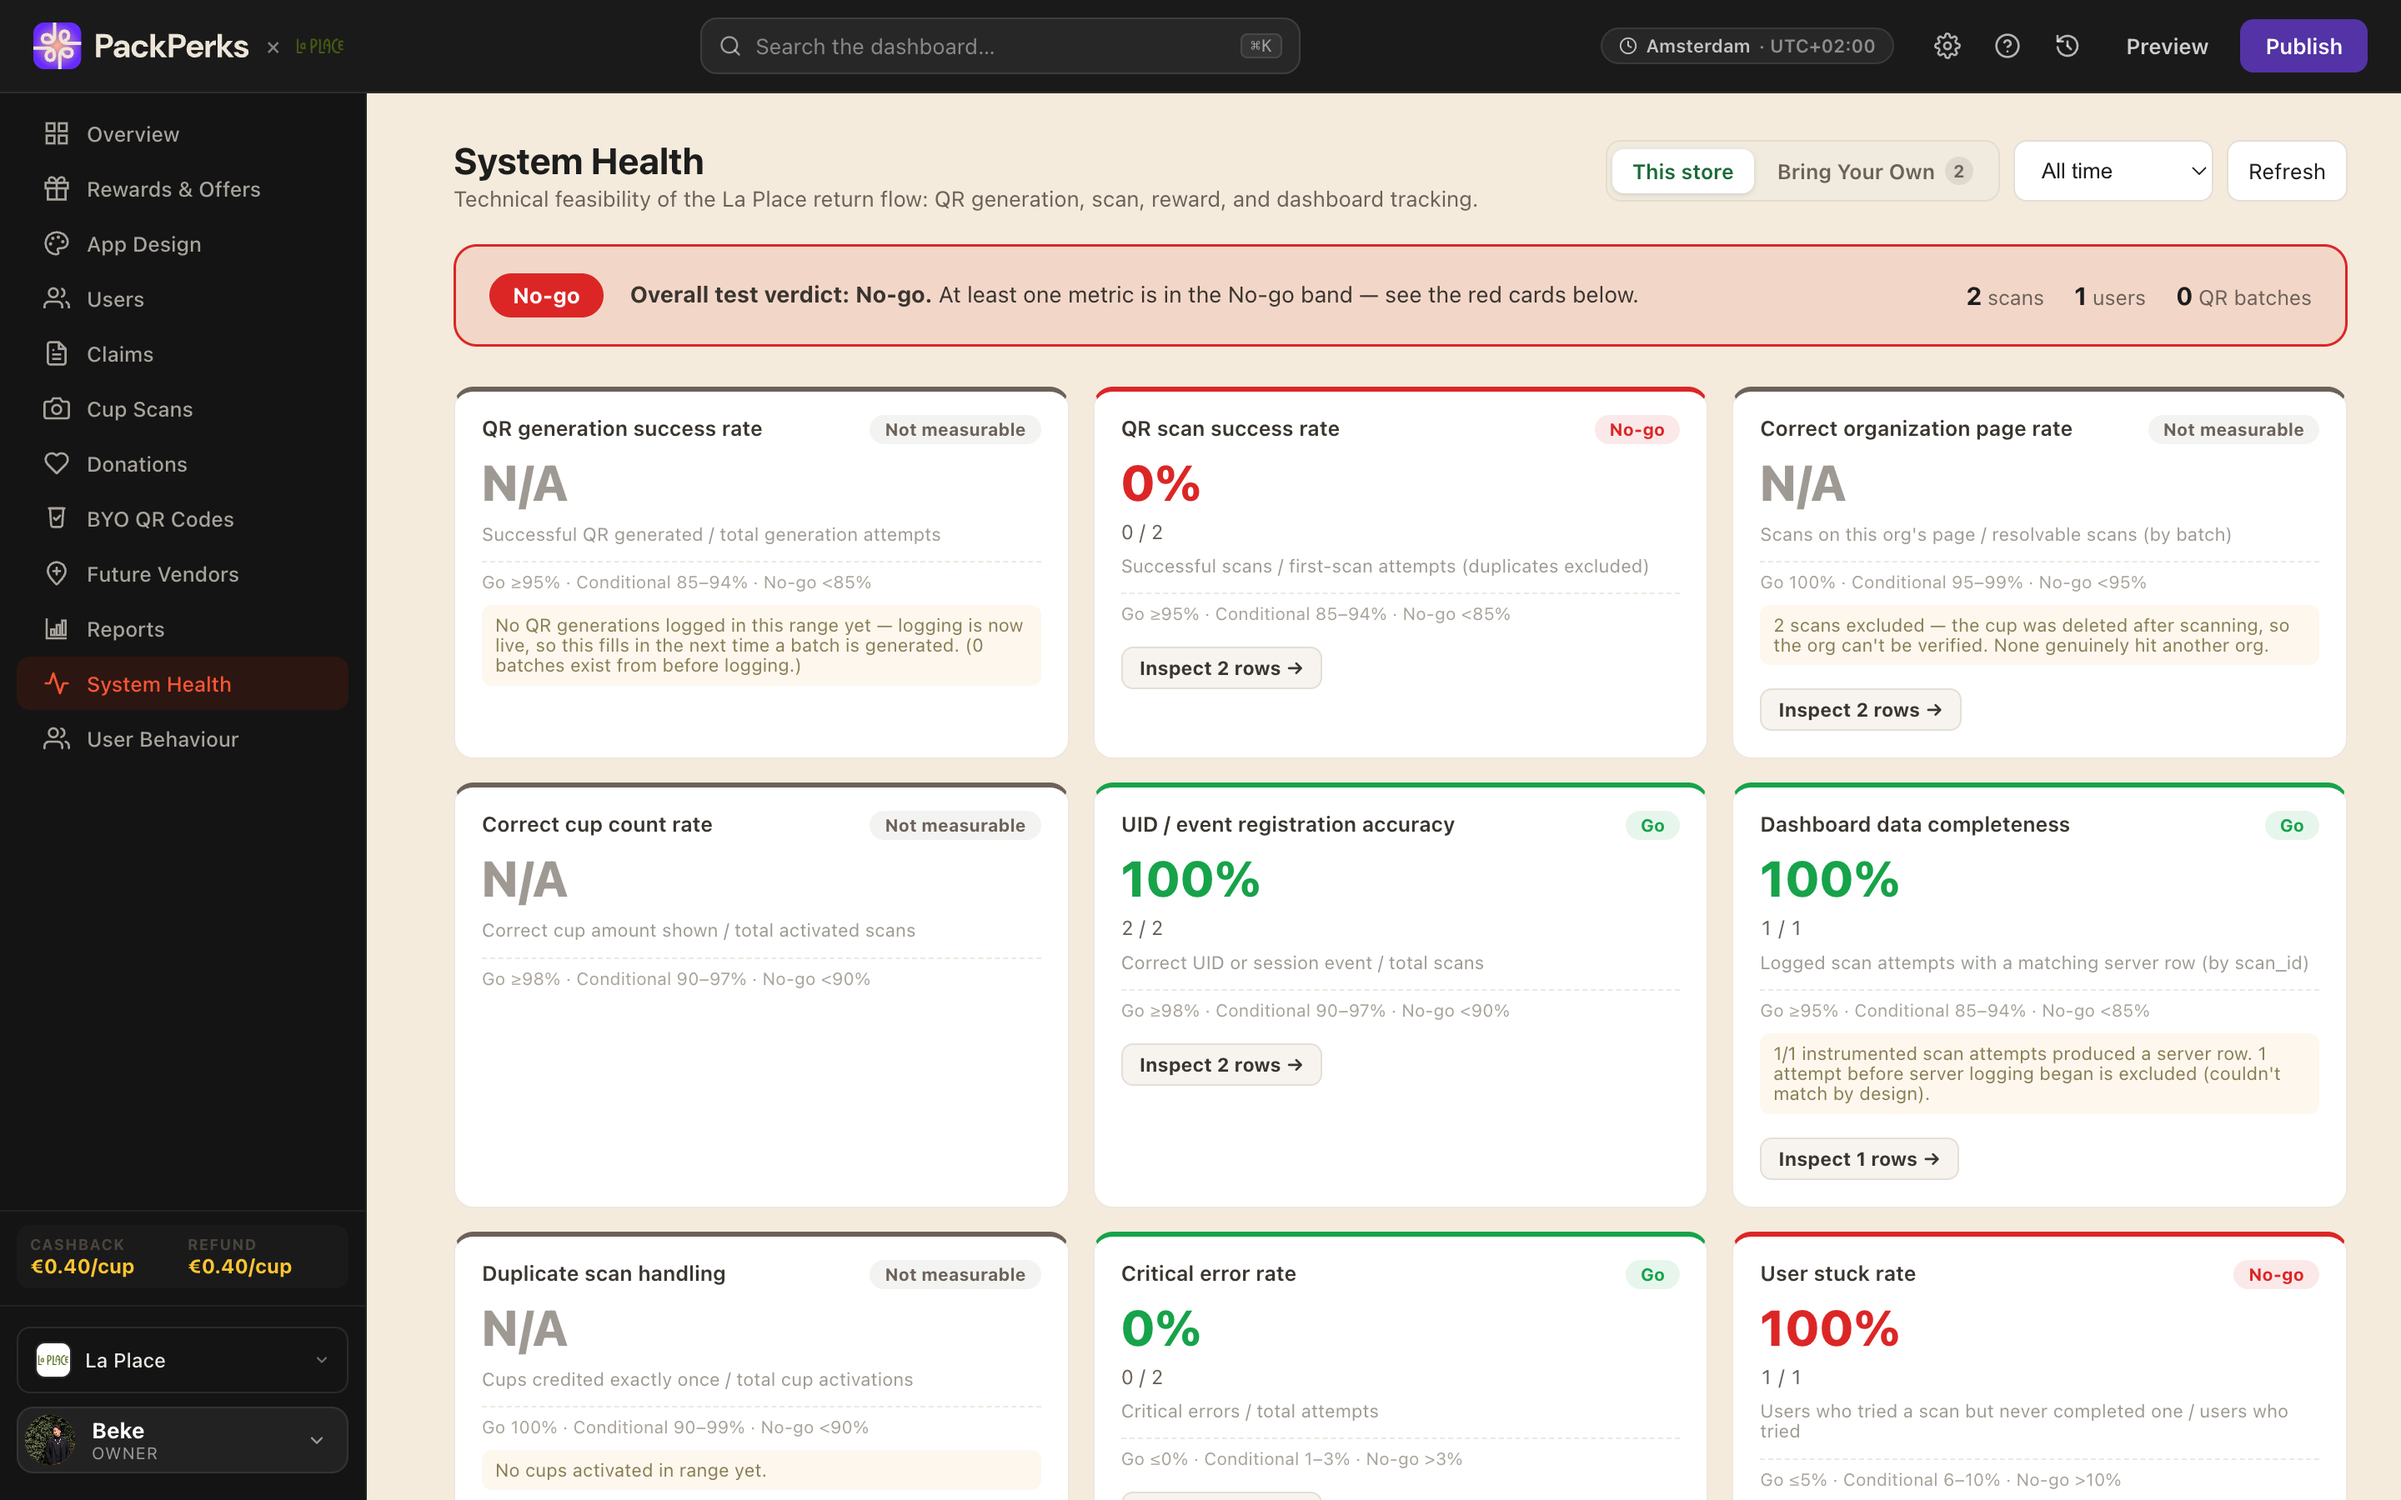
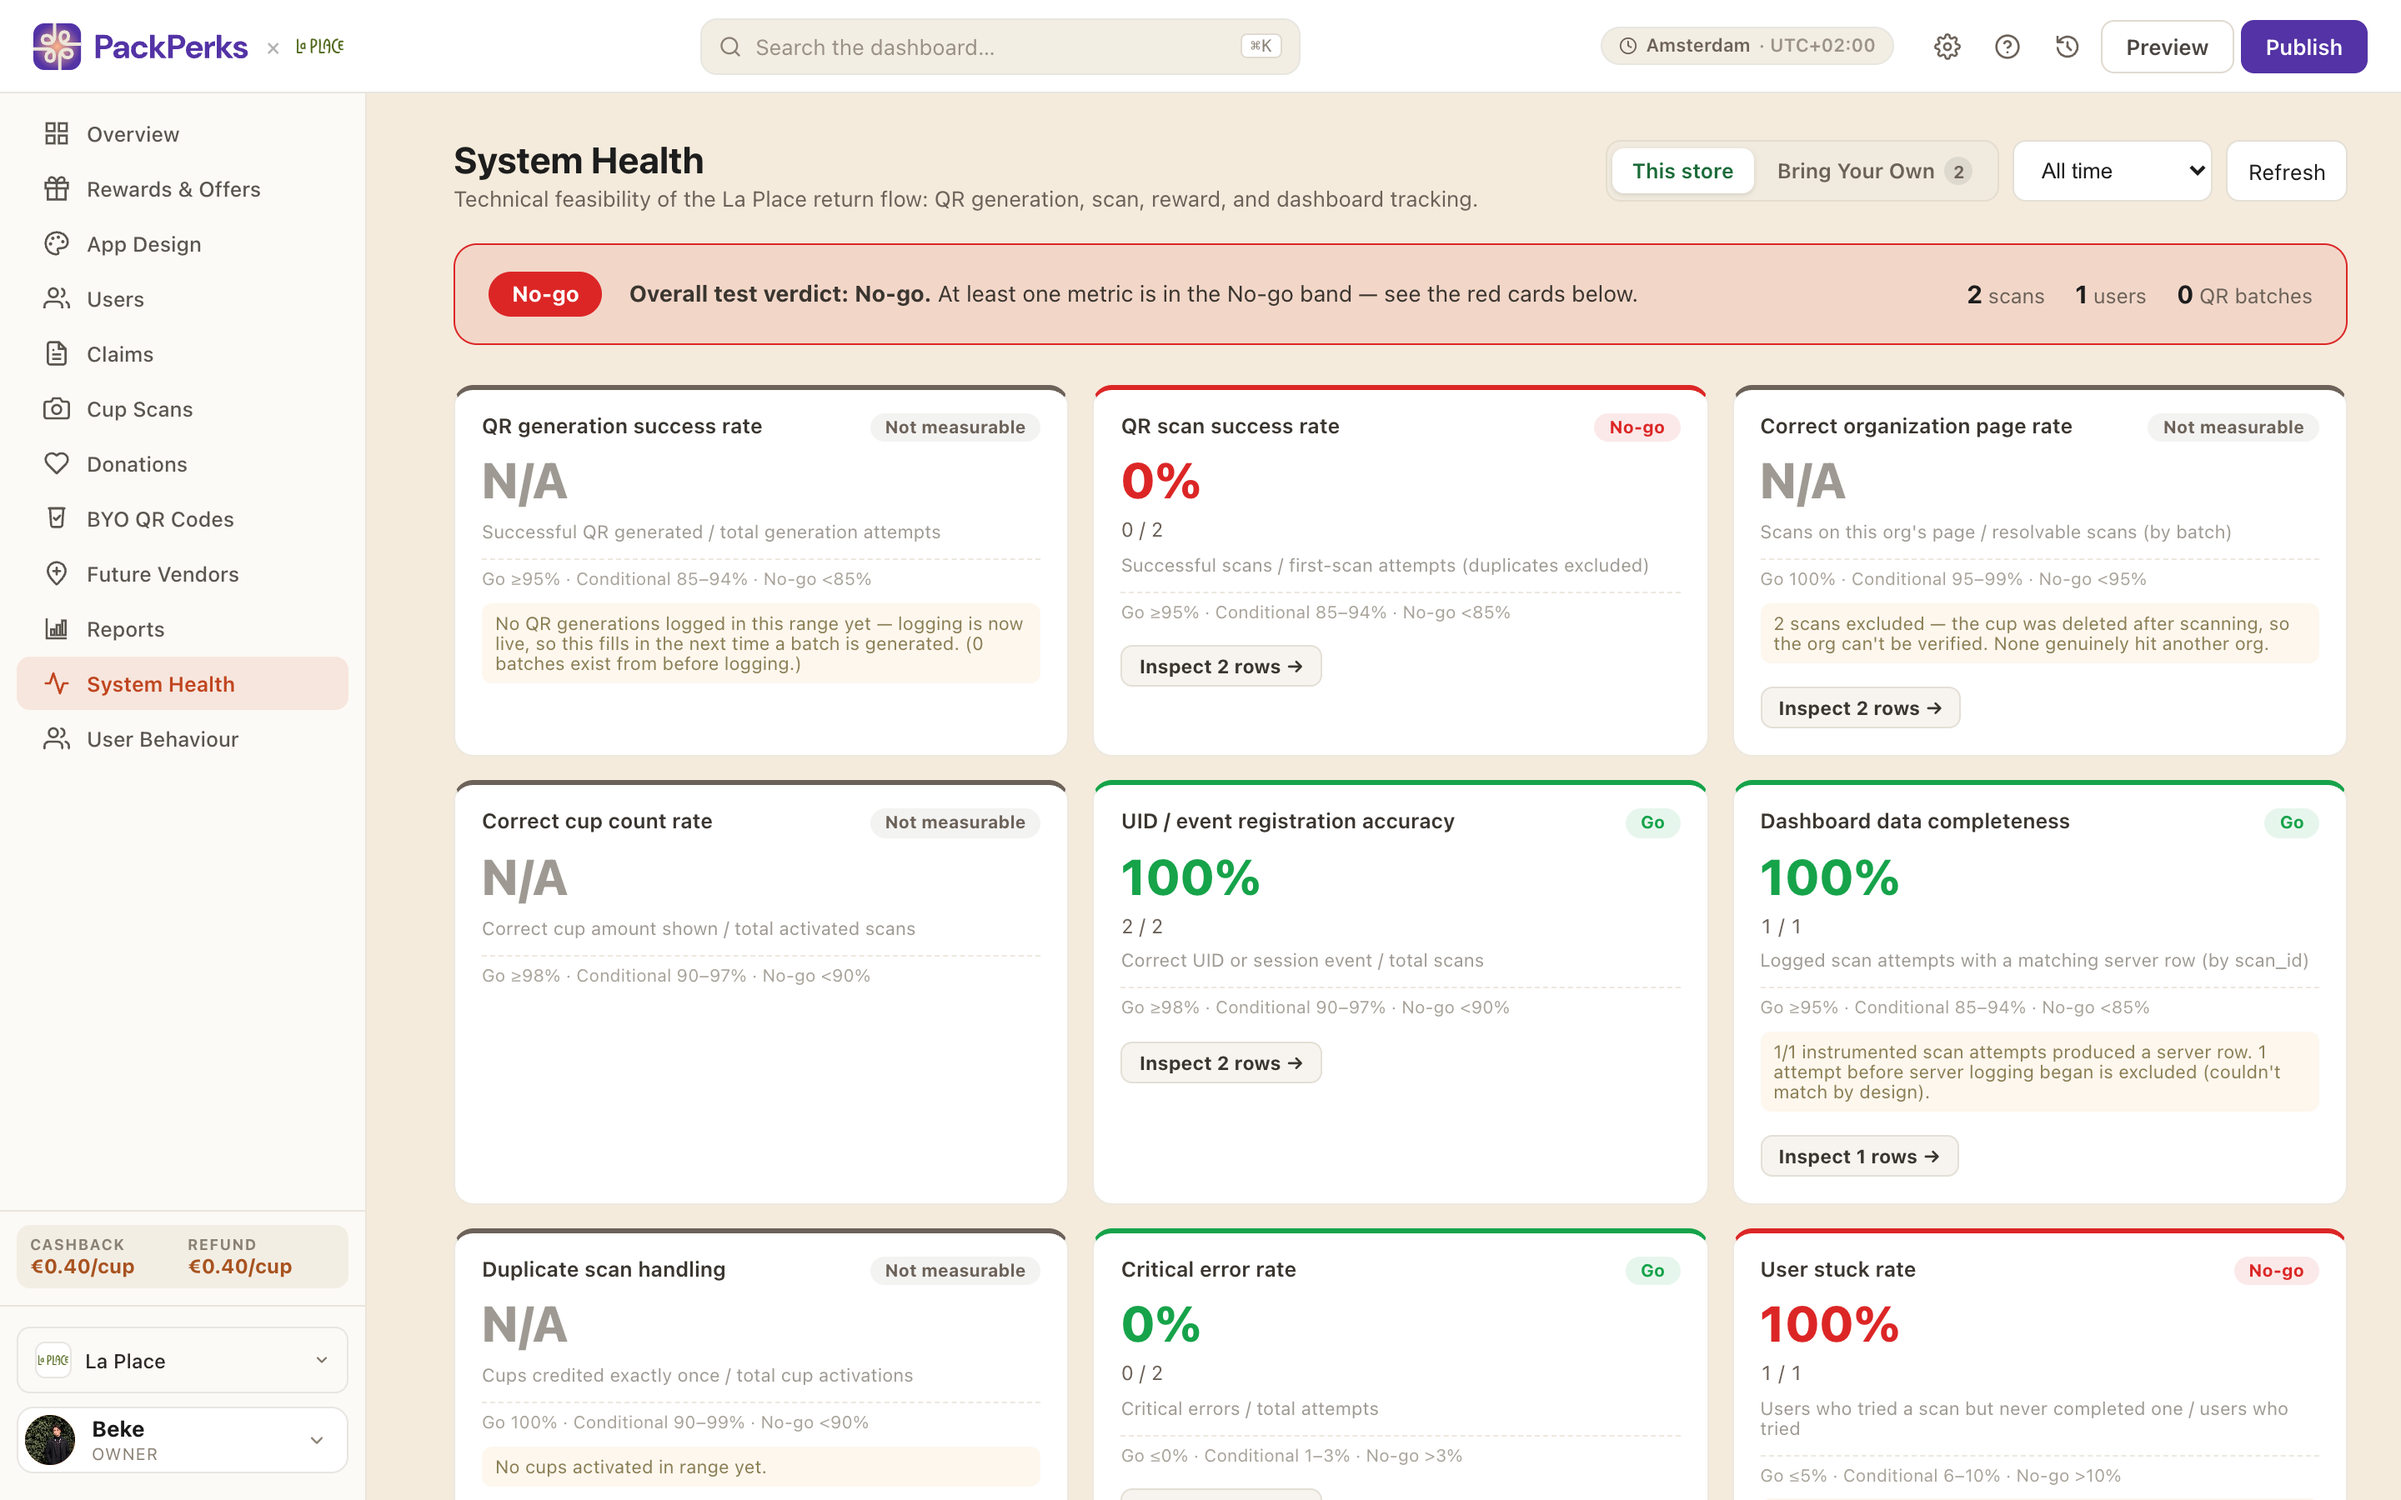
Admin: top-bar toolbar contrast, dynamic BYO chooser slug, light guide shots
- WorkflowDock (top-bar toolbar) icons + Preview recolored dark for the light
  top bar; Publish stays purple.
- Root model chooser resolves the BYO cafe group slug from the DB so the tile
  follows a future slug rename (was hard-coded to /byonl, now /byo).
- Admin guide: recaptured the page screenshots with the new light chrome and
  fixed the Settings caption for the tabbed layout.

diff --git a/src/components/ModelChooser.jsx b/src/components/ModelChooser.jsx
@@ -1,5 +1,7 @@
+import { useEffect, useState } from 'react';
 import './ModelChooser.css';
 import logo from '../assets/images/packperks-logo.svg';
+import { supabase } from '../lib/supabase';
 
 /* Root-path ('/') venue-model chooser.
  *
@@ -11,6 +13,18 @@ import logo from '../assets/images/packperks-logo.svg';
  * the app for that venue with a proper org resolved. No data is collected here,
  * so there is no cookie gate. */
 export default function ModelChooser() {
+  // The BYO café tile points at the café GROUP slug. Resolve it live from the
+  // DB so it follows any future rename (was hard-coded to the old '/byonl').
+  // Falls back to '/byo' until the lookup resolves.
+  const [byoHref, setByoHref] = useState('/byo');
+  useEffect(() => {
+    let alive = true;
+    supabase.from('org_groups').select('slug').order('created_at').limit(1).maybeSingle()
+      .then(({ data }) => { if (alive && data?.slug) setByoHref(`/${data.slug}`); })
+      .catch(() => { /* keep the fallback */ });
+    return () => { alive = false; };
+  }, []);
+
   return (
     <div className="mc">
       <div className="mc__inner">
@@ -18,7 +32,7 @@ export default function ModelChooser() {
         <p className="mc__prompt">Choose the model</p>
 
         <div className="mc__tiles">
-          <a className="mc__tile mc__tile--byo" href="/byonl">
+          <a className="mc__tile mc__tile--byo" href={byoHref}>
             <span className="mc__tile-icon" aria-hidden="true">
               <svg width="34" height="34" viewBox="0 0 24 24" fill="none" stroke="currentColor" strokeWidth="1.7" strokeLinecap="round" strokeLinejoin="round">
                 <path d="M5 4h14l-1.3 15.3a2.5 2.5 0 0 1-2.5 2.2H8.8a2.5 2.5 0 0 1-2.5-2.2L5 4z" />

diff --git a/src/admin/auth/WorkflowDock.css b/src/admin/auth/WorkflowDock.css
@@ -51,22 +51,24 @@
   width: 32px;
   padding: 0;
   background: transparent;
-  color: rgba(255, 255, 255, 0.68);
+  color: #6C6259;
 }
 .wd-icon:hover {
-  background: rgba(255, 255, 255, 0.10);
-  color: #FFFFFF;
+  background: #F3EEE4;
+  color: #1A1A1A;
 }
 
 /* ── Preview (labelled ghost) ────────────────────────────────────── */
 .wd-preview {
   padding: 0 14px;
   background: transparent;
-  color: rgba(255, 255, 255, 0.78);
+  color: #4A4540;
+  border-color: #E0DAD0;
 }
 .wd-preview:hover {
-  background: rgba(255, 255, 255, 0.10);
-  color: #FFFFFF;
+  background: #F3EEE4;
+  color: #1A1A1A;
+  border-color: #D5CDBE;
 }
 
 /* ── Publish (highlighted primary) ───────────────────────────────── */

diff --git a/docs/admin-guide/index.html b/docs/admin-guide/index.html
@@ -641,7 +641,7 @@
 
       <figure class="shot">
         <img src="img/org-settings.png" alt="The Settings and Organisation page with tabs and the organisation profile, locations and team sections" loading="lazy" />
-        <figcaption><b>Settings &amp; Organisation.</b> Tabs across the top, then the profile card, locations and team.</figcaption>
+        <figcaption><b>Settings &amp; Organisation.</b> Click a tab across the top to show that section (Profile shown here).</figcaption>
       </figure>
 
       <ul class="clean">
